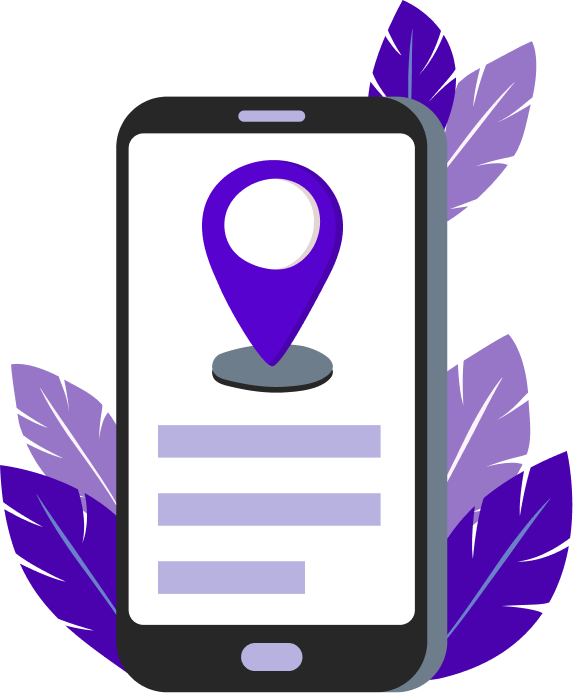
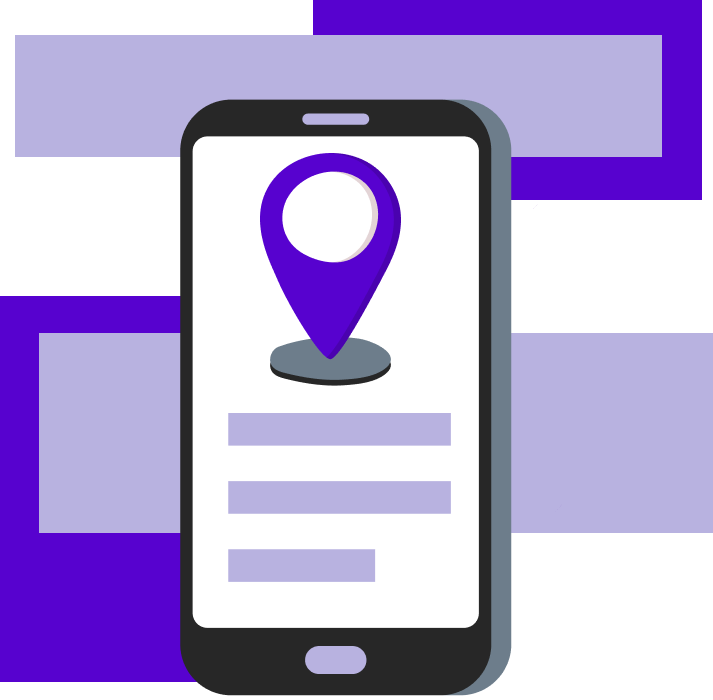
refactor: change payment images

diff --git a/src/presentation/pages/payment/confirmation/confirmation-styles.scss b/src/presentation/pages/payment/confirmation/confirmation-styles.scss
@@ -6,7 +6,7 @@
   display: flex;
   align-items: flex-start;
   justify-content: center;
-  gap: 3.2rem;
+  gap: 10rem;
   height: auto;
   width: 100vw;
   padding-top: 3.2rem;
@@ -16,8 +16,9 @@
   .confirmationPayment {
     display: flex;
     flex-direction: column;
-    width: 50%;
-    gap: 3.2rem;
+    width: 100%;
+    height: 100%;
+    gap: 2.2rem;
 
     .confirmationStep {
       position: relative;
@@ -145,7 +146,6 @@
 
         .sigupButton {
           font-size: 1.4rem;
-          text-align: end;
           font-weight: 400;
           color: $grayDark;
           cursor: pointer;
@@ -159,7 +159,7 @@
   }
 
   .confirmationImage {
-    width: 600px;
+    width: 70%;
     height: auto;
     animation: slide-in-left 1.4s forwards ease-out;
   }

diff --git a/src/presentation/pages/payment/authentication/authentication-styles.scss b/src/presentation/pages/payment/authentication/authentication-styles.scss
@@ -6,7 +6,7 @@
   display: flex;
   align-items: flex-start;
   justify-content: center;
-  gap: 3.2rem;
+  gap: 10rem;
   height: auto;
   width: 100vw;
   padding-top: 3.2rem;
@@ -132,7 +132,6 @@
 
         .sigupButton {
           font-size: 1.4rem;
-          text-align: end;
           font-weight: 400;
           color: $grayDark;
           cursor: pointer;
@@ -146,7 +145,7 @@
   }
 
   .paymentImage {
-    width: 700px;
+    width: 70%;
     height: auto;
     animation: slide-in-left 1.4s forwards ease-out;
   }

diff --git a/src/presentation/pages/payment/information/information-styles.scss b/src/presentation/pages/payment/information/information-styles.scss
@@ -6,7 +6,7 @@
   display: flex;
   align-items: flex-start;
   justify-content: center;
-  gap: 3.2rem;
+  gap: 10rem;
   height: auto;
   width: 100vw;
   padding-top: 3.2rem;
@@ -16,7 +16,7 @@
   .informationPayment {
     display: flex;
     flex-direction: column;
-    width: 50%;
+    width: 60%;
     gap: 3.2rem;
 
     .informationStep {
@@ -139,7 +139,7 @@
   }
 
   .informationImage {
-    width: 600px;
+    width: 70%;
     height: auto;
     animation: slide-in-left 1.4s forwards ease-out;
   }
